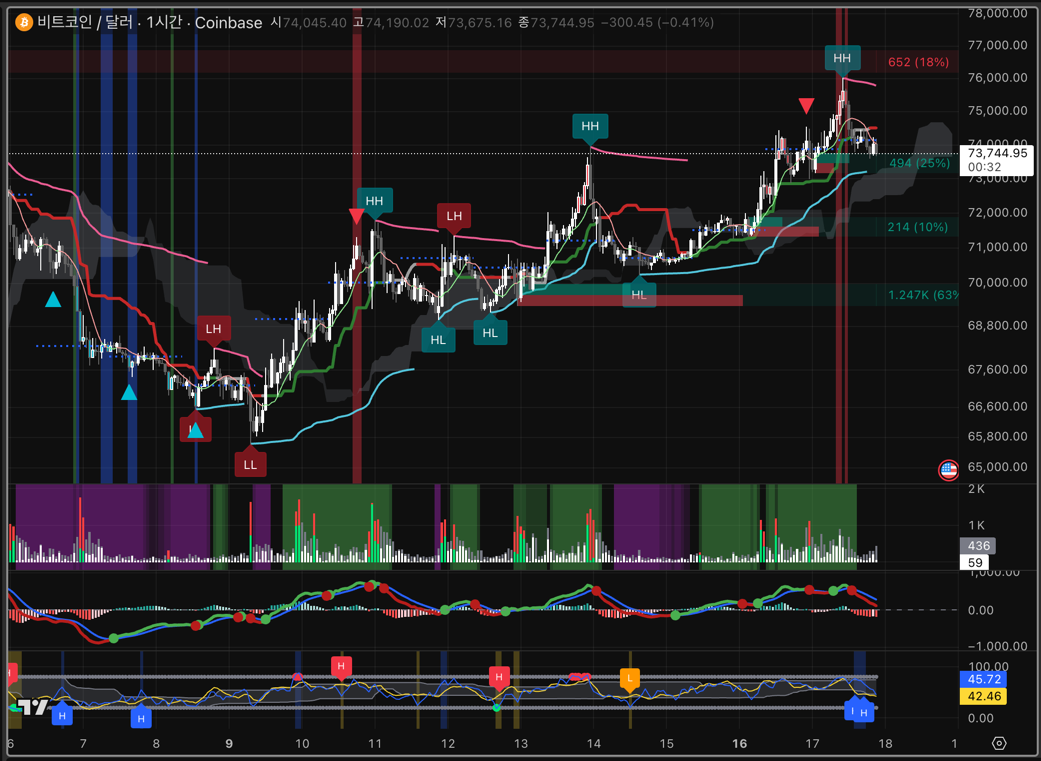
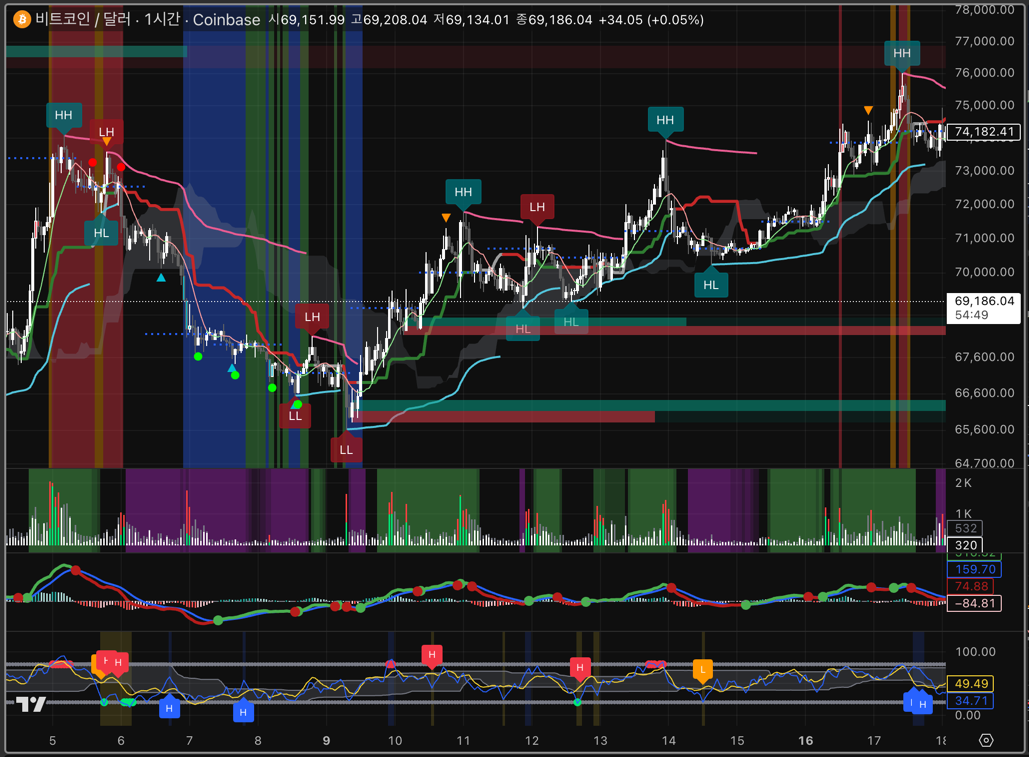
코드 업데이트

diff --git a/pinescript/비정상 가격 추적 (캔들)/README.md b/pinescript/비정상 가격 추적 (캔들)/README.md
@@ -14,6 +14,7 @@
 - 비정상 매수 / 매도 거래량
 - RSI 다이버전스
 - ATR 기준 배경 구간
+- 다중 조건 기반 `L/S` 진입 신호
 
 `ATR 배경 구간`은 아래 두 기준을 따로 계산한 뒤 합쳐서 보여줍니다.
 
@@ -29,6 +30,7 @@
 - `Buy / Sell Volume`
 - `RSI Divergence`
 - `ATR` 기반 배경 구간
+- `L/S` 진입 신호
 
 ## 트레이딩뷰 적용 방법
 
@@ -187,13 +189,43 @@ RSI 다이버전스 이후 가격이 ATR 기준으로 더 과하게 움직였지
 
 - `배경 투명도`
 
+### 6. L/S 진입 신호
+
+`L/S` 신호는 한 가지 조건만으로 찍지 않고, `세팅`과 `확인`을 나눠 점수화합니다.
+
+- 세팅:
+  - 최근 비정상 과매수 / 과매도 캔들
+  - 최근 RSI 다이버전스
+  - 현재 ATR 배경 구간
+  - 최근 보조 종합 신호
+- 확인:
+  - 거래량 확인
+  - MA 위/아래 위치와 기울기
+  - 현재 캔들 방향
+  - 직전 봉 대비 종가 진행 방향
+  - `cRSI`, `MFI` 턴 방향
+
+기본 동작은 아래와 같습니다.
+
+- `Strong Long Signal`
+  - 강세 세팅 점수와 확인 점수가 모두 일정 기준 이상
+  - 강한 진입 점수까지 통과했을 때만 발생
+  - 봉 아래 원형으로 표시
+- `Strong Short Signal`
+  - 약세 세팅 점수와 확인 점수가 모두 일정 기준 이상
+  - 강한 진입 점수까지 통과했을 때만 발생
+  - 봉 위 원형으로 표시
+
+같은 방향 신호가 너무 촘촘하게 반복되지 않도록 `동일 방향 신호 쿨다운`도 포함되어 있습니다.
+
 ## 추천 사용 흐름
 
 1. MA 방향부터 봅니다.
 2. cRSI 과매수 / 과매도 상태에서 볼린저 밴드를 일정 비율 이상 몸통으로 초과한 비정상 캔들이 나왔는지 봅니다.
 3. RSI 다이버전스가 있는지 봅니다.
 4. ATR 배경이 일반 배경인지, 강한 배경인지 확인합니다.
-5. 거래량까지 같은 방향이면 더 강하게 봅니다.
+5. 차트에 초록/빨간 원형 `Strong L/S` 신호가 찍히면, 세팅과 확인 조건이 함께 통과된 것으로 봅니다.
+6. 거래량까지 같은 방향이면 더 강하게 봅니다.
 
 - `상승 추세 + 비정상 과매도 캔들 + 강세 다이버전스 + 강세 배경` = 롱 후보
 - `하락 추세 + 비정상 과매수 캔들 + 약세 다이버전스 + 약세 배경` = 숏 후보
@@ -231,6 +263,8 @@ RSI 다이버전스 이후 가격이 ATR 기준으로 더 과하게 움직였지
 - `매도 감시 구간 진입`
 - `매수 감시 구간 강화`
 - `매도 감시 구간 강화`
+- `Strong Long Signal`
+- `Strong Short Signal`
 
 ## 추가 표시 옵션
 
@@ -239,6 +273,10 @@ RSI 다이버전스 이후 가격이 ATR 기준으로 더 과하게 움직였지
 - `cRSI / 밴드 플롯 표시`
 - `비정상 캔들 볼린저 밴드 표시`
 - `매수/매도 거래량 평균선 표시`
+- `Strong L/S 진입 신호 표시`
+
+기본값은 `Strong L/S`만 보이도록 되어 있고, 차트에는 `Strong L`은 봉 아래, `Strong S`는 봉 위에 더 작은 원형으로 표시됩니다.
+색상은 `Strong L = #00FF00`, `Strong S = #FF0000`입니다.
 
 ## 주의사항
 
